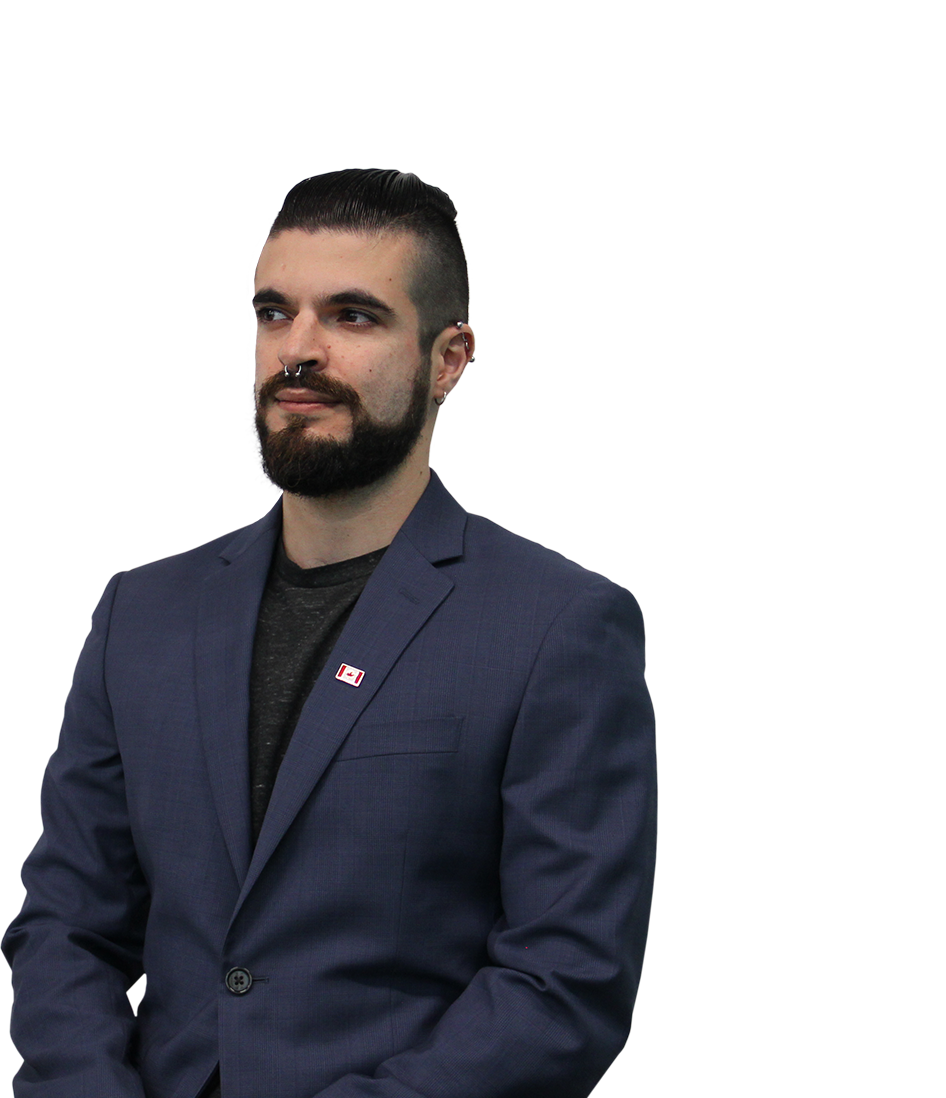
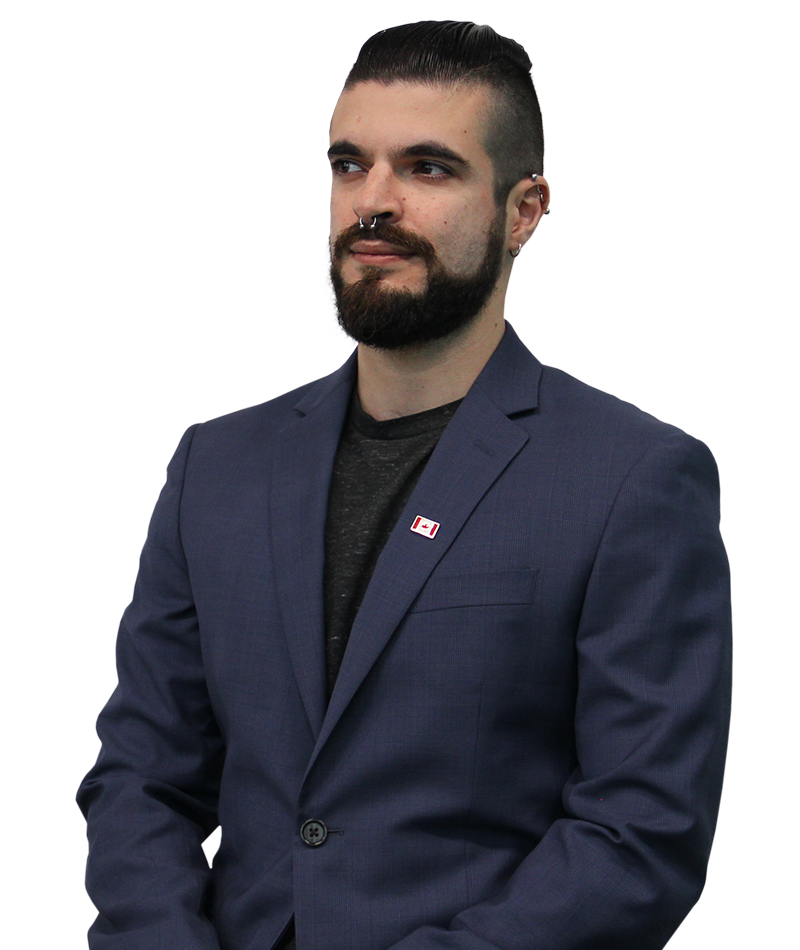
Replaced Lucas photo for better cropped one

diff --git a/src/components/bios/bios.vue b/src/components/bios/bios.vue
@@ -444,7 +444,7 @@ export default {
     }
 
     img {
-      width: 95%;
+      width: 90%;
       position: relative;
       bottom: -5px;
     }
